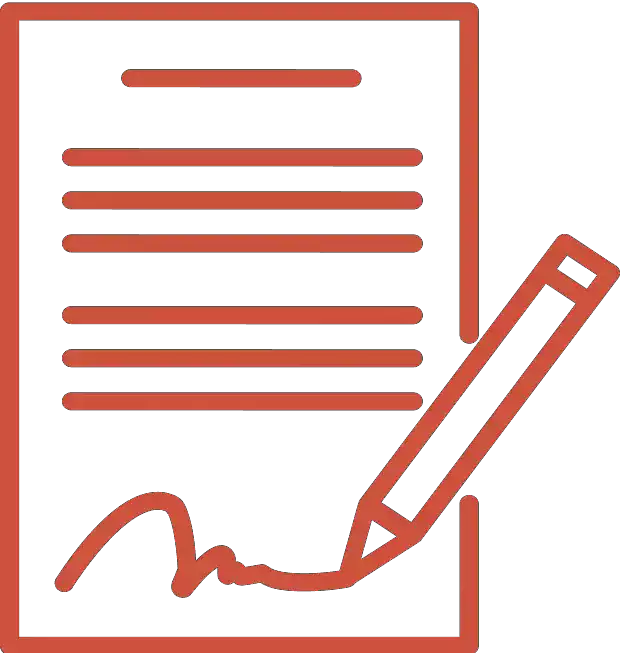
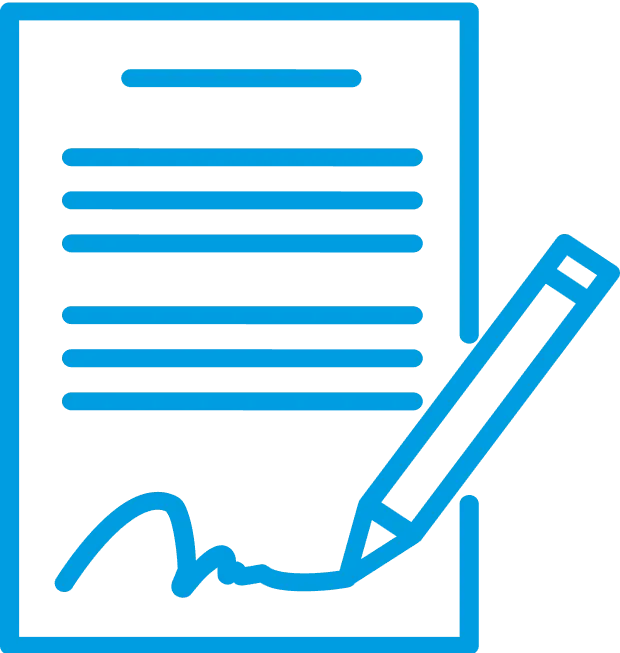
ghjk

Changed region(s): [[0.0, 0.0, 1.0, 1.0], [0.0919, 0.2144, 0.7048, 0.3982], [0.1839, 0.0919, 0.5823, 0.1531]]

diff --git a/style.css b/style.css
@@ -9,14 +9,14 @@ h4{margin:5% 3%;font-size:20px;font-weight:350}
 p{color:#000;font-size:18px;margin-left:5%;margin-right:5%;text-align:center;padding:2%;line-height:1.7;word-spacing:5px}
 .form-container h2{font-size:22px;margin-top:3%;margin-bottom:3%}
 .strong-color{color:#000}
-.histoire{background-color:#000;padding:2% 0;width:100%;margin:10% auto}
+.histoire{background-color:#01002c;padding:2% 0;width:100%;margin:10% auto}
 .histoire h4,.histoire p{color:#fff}
-#tarif{background-color:#9a1515;padding:2%;width:100%;margin:10% auto}
+#tarif{background-color:#01002c;padding:2%;width:100%;margin:10% auto}
 #tarif h1,#tarif h4,#tarif p{color:#fff}
 #tarif p{text-align:left}
 .valeur h3,.valeur h4{margin-bottom:0;color:#fff;text-align:left}
 .valeur h3,.valeur h4,.valeur p{text-align:left}
-.valeur{background-color:#9a1515;width:100%;margin-left:auto;margin-right:auto;opacity:0;transform:translateX(-50%);transition:opacity .5s,transform 1s}
+.valeur{background-color:#01002c;width:100%;margin-left:auto;margin-right:auto;opacity:0;transform:translateX(-50%);transition:opacity .5s,transform 1s}
 .valeur.slide-in-done{opacity:1;transform:translateX(0)}
 .valeur .confiance{display:flex;align-items:center;margin-top:5%;margin-left:2%;font-size:35px;text-align:left}
 .valeur .confiance ion-icon{color:#fff;margin-left:2%;margin-top:2%}
@@ -28,13 +28,13 @@ p{color:#000;font-size:18px;margin-left:5%;margin-right:5%;text-align:center;pad
 *{box-sizing:border-box;outline:0;margin:0;padding:0}
 .navbar{padding:10px;justify-content:space-between;align-items:center;position:fixed;top:0;z-index:1000;height:11%}
 .logo{align-items:center;max-height:70px;min-height:70px;margin-left:0}
-.icon{fill:#9a1515;cursor:pointer;align-items:center;margin-right:3%}
+.icon{fill:#009de0;cursor:pointer;align-items:center;margin-right:3%}
 .dropdown,.nav-menu,.navbar input{display:none}
 [id^=btn]:checked+ul{display:block}
 .nav-menu{position:absolute;top:99%}
 .drop-item a,.nav-item a,.show{color:#000;text-decoration:none;font-size:1.2rem;line-height:3;display:block;text-align:center}
 .drop-item a{margin-left:8%;font-size:1rem}
-.nav-menu a:hover,.show:hover{color:#9a1515}
+.nav-menu a:hover,.show:hover{color:#009de0}
 .image-index{background-image:url(assainissement-94.webp);background-size:cover;background-position:center;background-repeat:no-repeat;height:650px;position:relative;text-align:center;display:flex;flex-direction:column;align-items:center;justify-content:center}
 .image-index h1{color:#000;width:80%;margin-top:auto}
 .icon-anime{display:flex;justify-content:space-between;align-items:center;margin-top:5%}
@@ -48,18 +48,18 @@ p{color:#000;font-size:18px;margin-left:5%;margin-right:5%;text-align:center;pad
 .contenu img{display:flex;justify-content:center;width:15%;height:auto;margin:7% auto 5%}
 .contenu h3{font-size:22px;margin-bottom:3%}
 .contenu2 img{display:flex;justify-content:center;width:60%;height:auto;margin:7% auto 5%}
-#contact{margin-top:10%;padding:2%;background-color:#9a1515}
+#contact{margin-top:10%;padding:2%;background-color:#01002c}
 #contact h5{text-align:center;margin:5% 3% 3%;color:#fff;font-weight:600;font-size:20px}
 #contact p{color:#fff}
 .liens a{margin:0;color:#fff;font-size:16px}
 .liens-wp a,.liens-wp p{color:#fff;font-size:12px}
 .bouton-devis1{background-color:#000;color:#fff;padding:1% 5%;border-radius:25px;text-decoration:none;margin-top:auto;margin-bottom:10%}
 .bouton-devis1 ion-icon{font-size:20px}
-.bouton-devis2{display:flex;justify-content:center;background-color:#000;color:#fff;font-size:22px;padding:2%;border-radius:25px;text-decoration:none;margin:2% 35%}
-.bouton-devis3{opacity:0;transform:translateY(50px);transition:opacity 0.5s,transform .5s;display:flex;justify-content:center;background-color:#be2929;color:#fff;font-size:22px;padding:1%;text-decoration:none;border-radius:25px;margin:2% 25%}
-.bouton-devis4{display:flex;justify-content:center;background-color:#be2929;color:#fff;font-size:22px;padding:1%;text-decoration:none;border-radius:25px;margin:2% 25%}
+.bouton-devis2{display:flex;justify-content:center;background-color:#009de0;color:#fff;font-size:22px;padding:2%;border-radius:25px;text-decoration:none;margin:2% 35%}
+.bouton-devis3{opacity:0;transform:translateY(50px);transition:opacity 0.5s,transform .5s;display:flex;justify-content:center;background-color:#01002c;color:#fff;font-size:22px;padding:1%;text-decoration:none;border-radius:25px;margin:2% 25%}
+.bouton-devis4{display:flex;justify-content:center;background-color:#01002c;color:#fff;font-size:22px;padding:1%;text-decoration:none;border-radius:25px;margin:2% 25%}
 .bouton-devis3:hover{background-color:#000}
-.bouton-devis1:hover,.form-container button:hover{background-color:#9a1515}
+.bouton-devis1:hover,.form-container button:hover{background-color:#01002c}
 .form-container{display:flex;flex-direction:column;align-items:center;margin:5% auto;width:90%;background:linear-gradient(to bottom,#650a0a,#5a5858);padding:20px;box-shadow:0 0 10px rgba(0,0,0,.1);color:#fff}
 .image-container{display:flex;justify-content:center;align-items:center;background-color:#fff;padding:1%;margin-left:37%;margin-right:37%;margin-bottom:20px;border-radius:20px}
 .image-container img{width:100%;height:auto;border-radius:20px}
@@ -93,7 +93,7 @@ p{color:#000;font-size:18px;margin-left:5%;margin-right:5%;text-align:center;pad
   .icon,.logo,.navbar{display:flex}
   .nav-menu,.navbar{left:0;right:0}
   .navbar{padding:10px;justify-content:space-between;align-items:center;position:fixed;top:0;z-index:1000;height:11%}
-  .logo{align-items:center;max-height:60px;min-height:60px;margin-left:10%}
+  .logo{align-items:center;max-height:50px;min-height:50px;margin-left:3%}
   .icon{cursor:pointer;align-items:center}
   .dropdown,.nav-menu,.navbar input{display:none}
   [id^=btn]:checked+ul{display:block}
